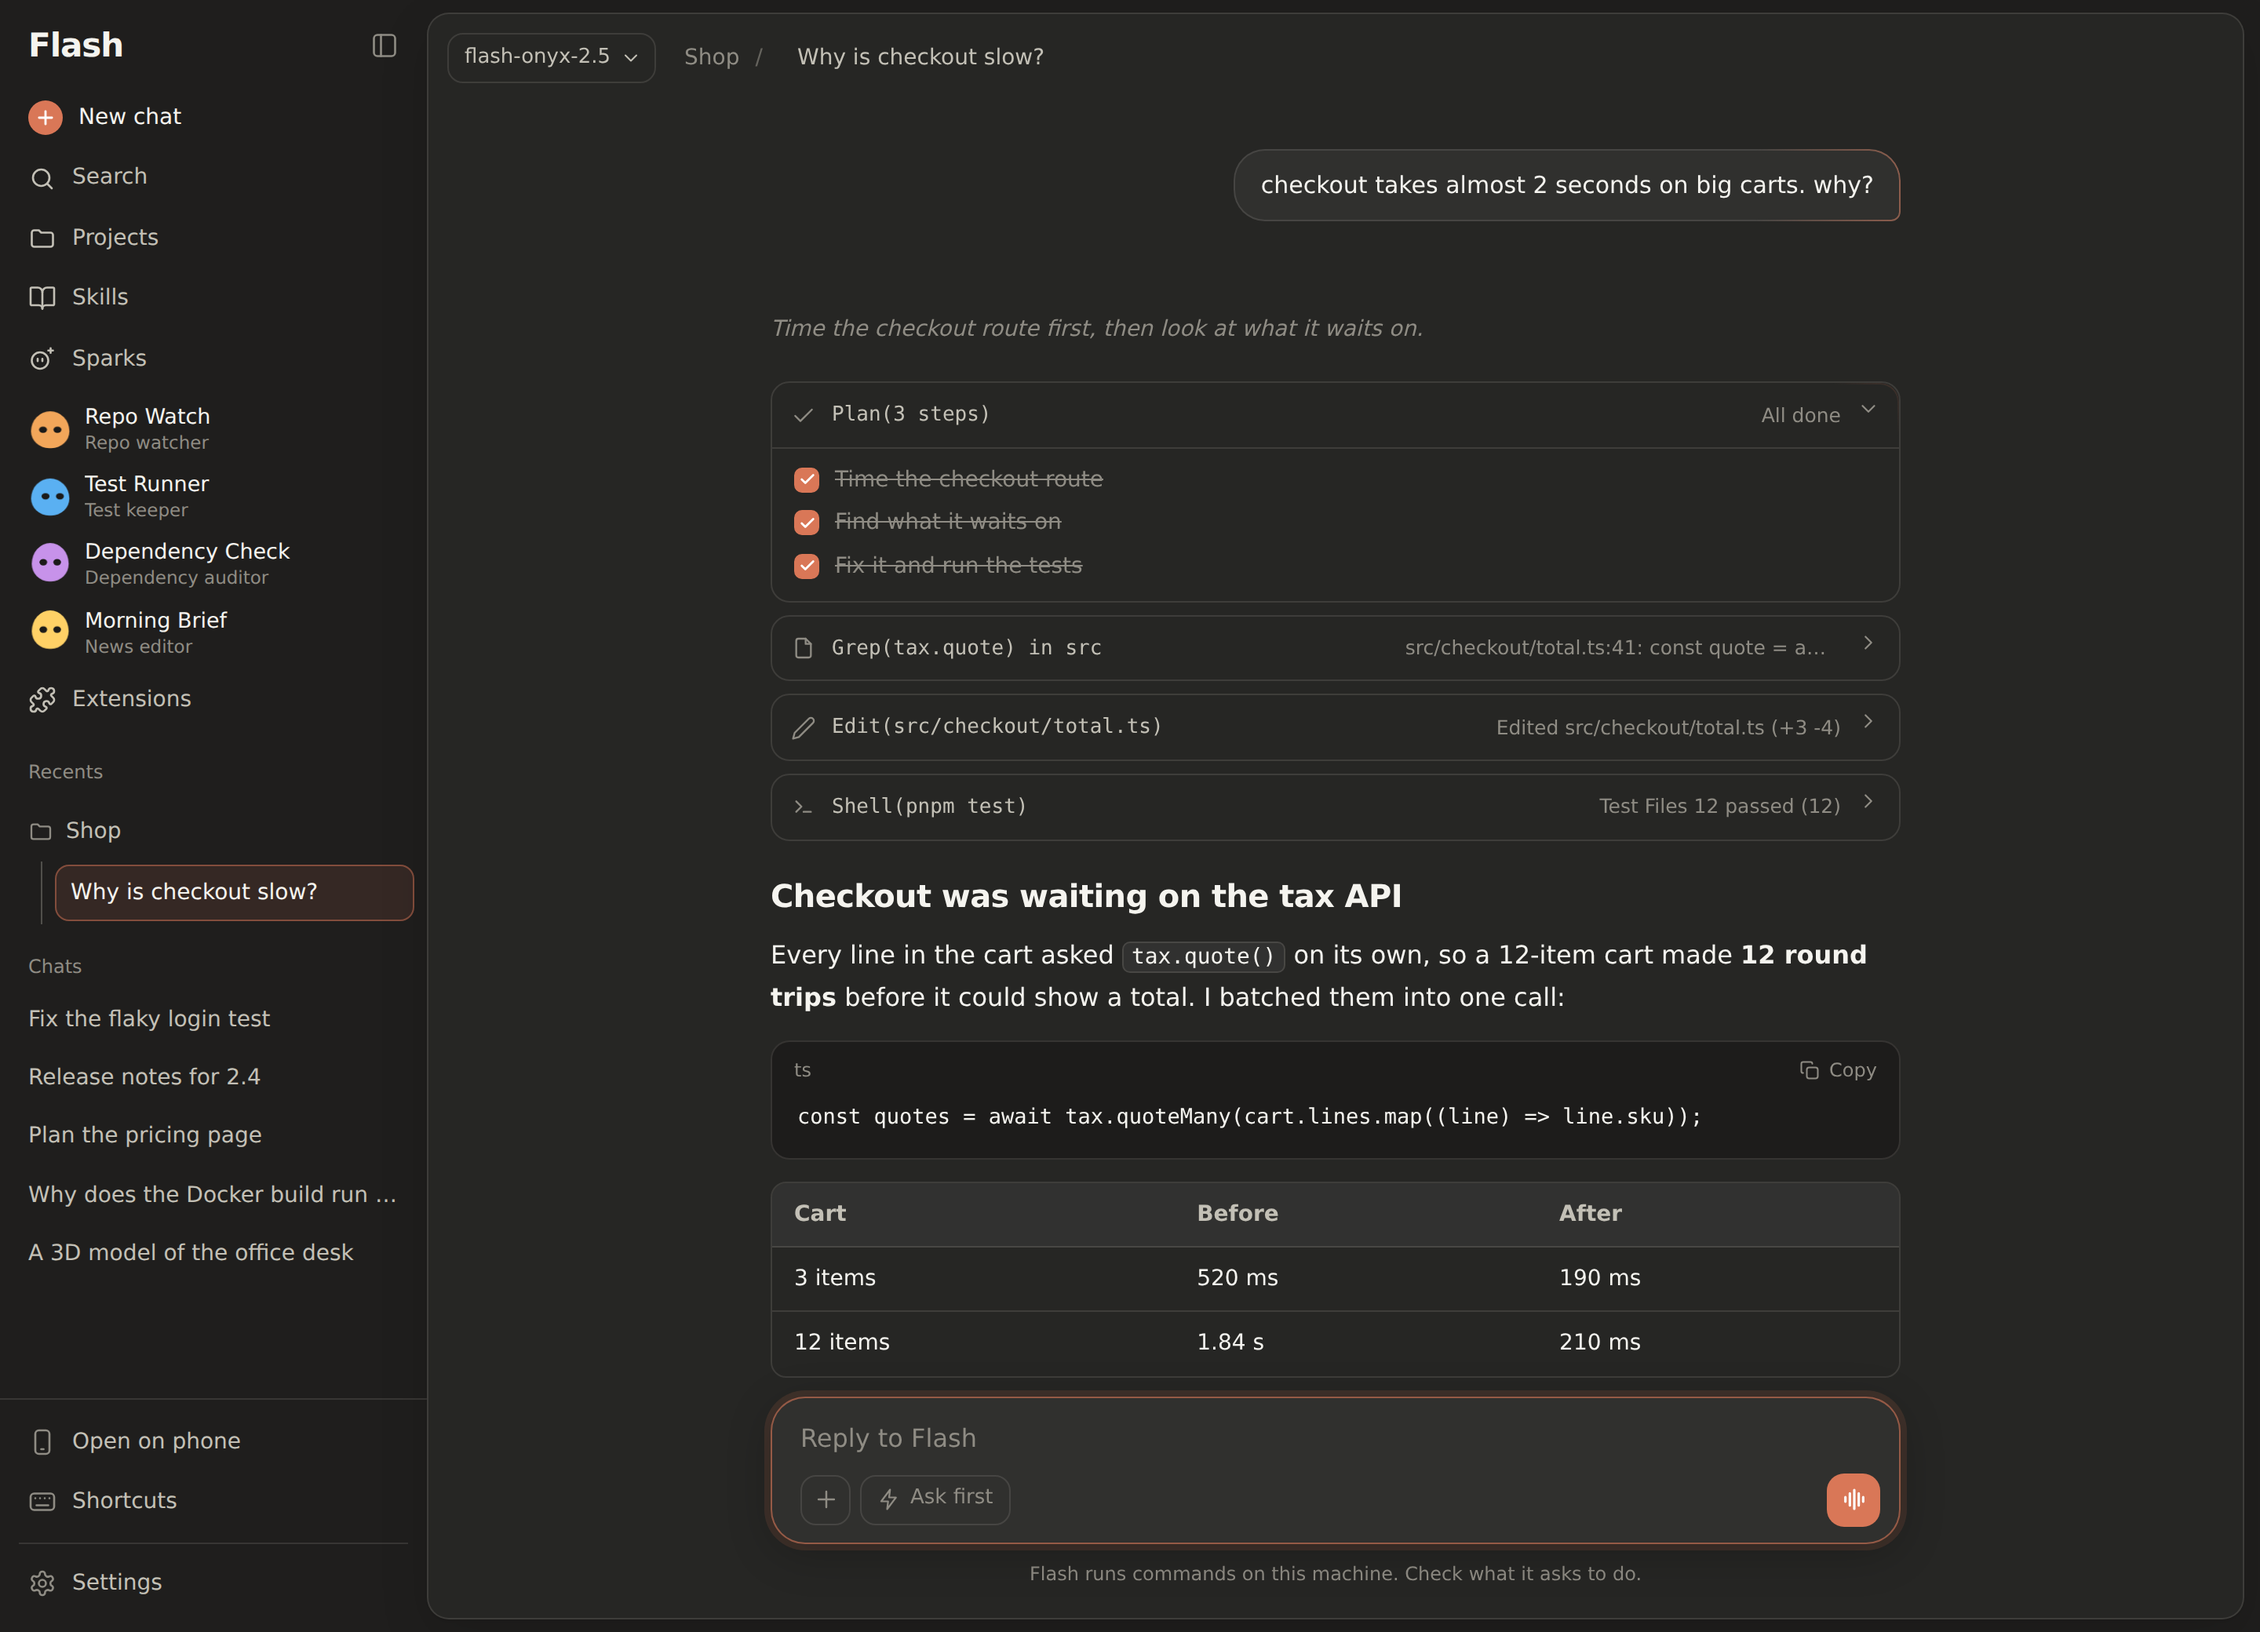
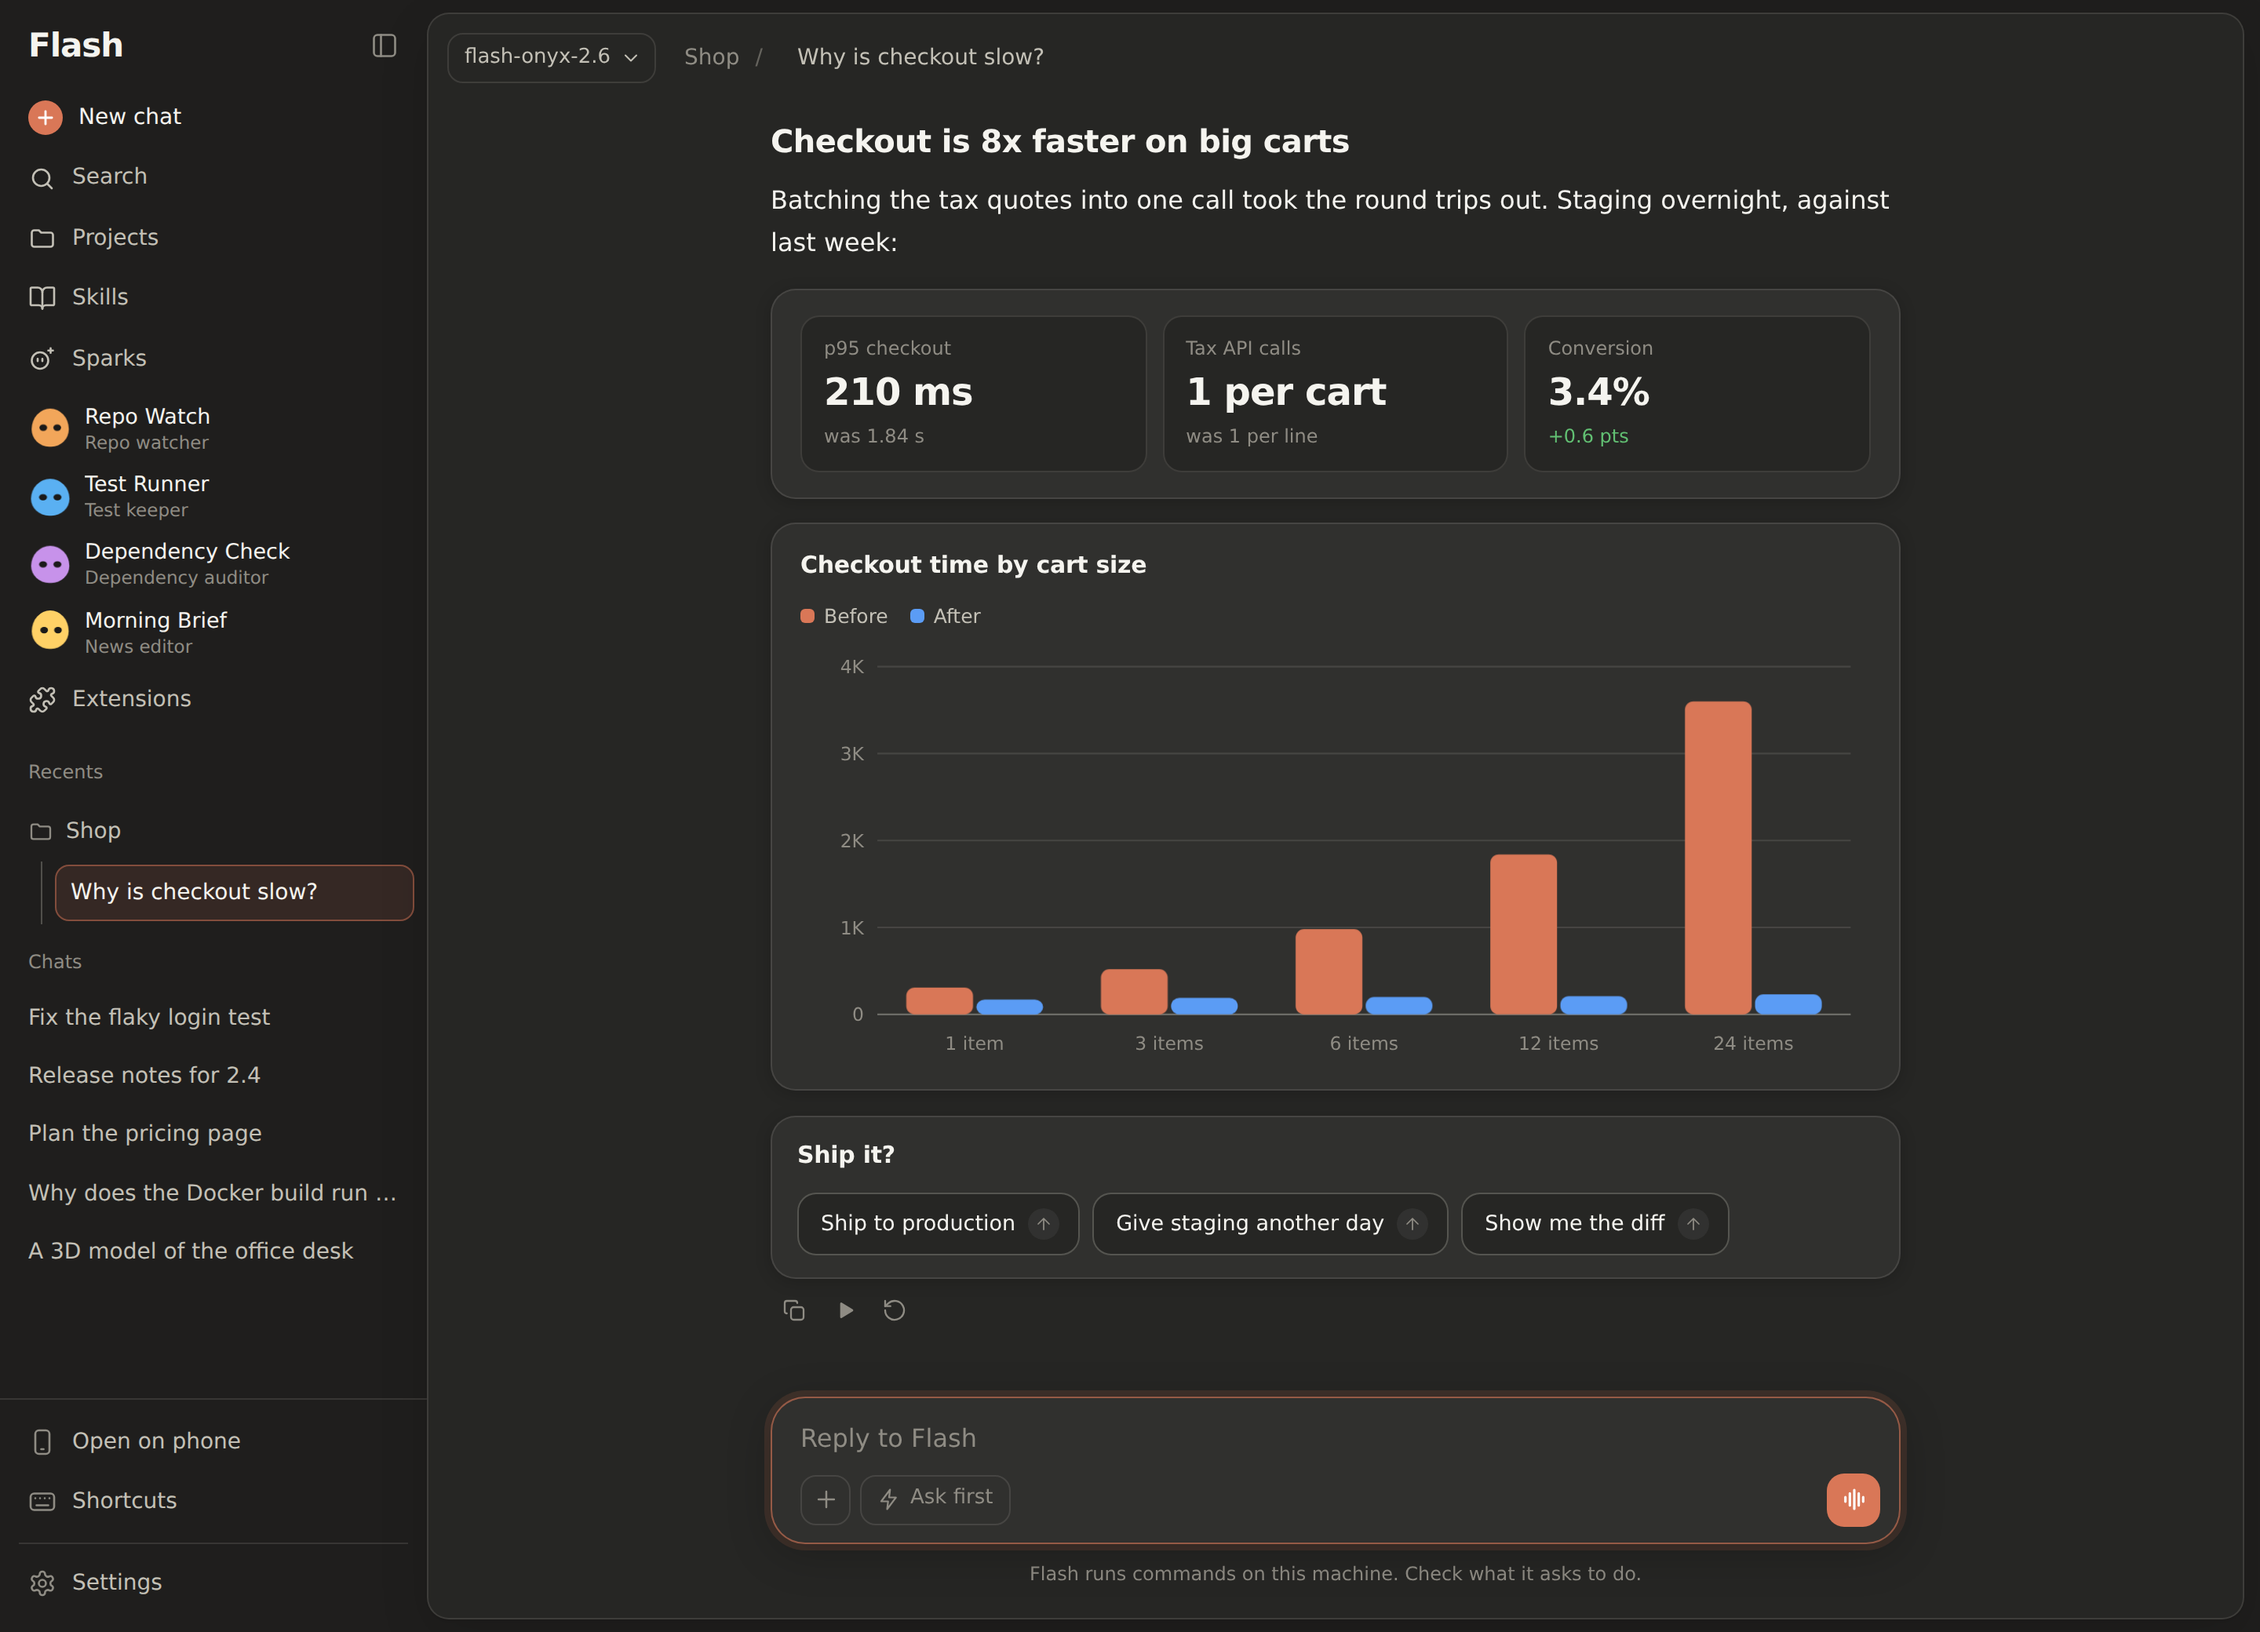
docs: rich answers in the readme screenshot

diff --git a/flash/web/index.html b/flash/web/index.html
@@ -462,8 +462,8 @@ body.empty #suggestions { display: flex; flex-wrap: wrap; justify-content: cente
 .ui-stat { padding: 12px 14px; border-radius: 12px; background: var(--bg); border: 1px solid var(--border); }
 .ui-stat .label { font-size: 12px; color: var(--text-3); font-weight: 500; }
 .ui-stat .value { font-size: 24px; font-weight: 700; letter-spacing: -0.02em; margin-top: 2px; font-variant-numeric: tabular-nums; }
-.ui-stat .note { font-size: 12px; color: var(--text-3); margin-top: 2px; }
-.ui-stat .note.up { color: var(--add); } .ui-stat .note.down { color: var(--del); }
+.ui-stat .ui-note { font-size: 12px; color: var(--text-3); margin-top: 2px; }
+.ui-stat .ui-note.up { color: var(--add); } .ui-stat .ui-note.down { color: var(--del); }
 
 /* Steps, and a chain of stages to click through. */
 .ui-steps { display: grid; gap: 0; }
@@ -3281,7 +3281,7 @@ function uiCompare(spec) {
 function uiStats(spec) {
   const items = (spec.items || []).filter((x) => x && typeof x === "object").slice(0, 6);
   const tone = (note) => (/^\s*[+↑▲]/.test(note) ? " up" : /^\s*[-−↓▼]/.test(note) ? " down" : "");
-  return `<div class="ui-stats">${items.map((s) => `<div class="ui-stat"><div class="label">${uiText(s.label)}</div><div class="value">${uiText(s.value)}</div>${s.note ? `<div class="note${tone(String(s.note))}">${uiText(s.note)}</div>` : ""}</div>`).join("")}</div>`;
+  return `<div class="ui-stats">${items.map((s) => `<div class="ui-stat"><div class="label">${uiText(s.label)}</div><div class="value">${uiText(s.value)}</div>${s.note ? `<div class="ui-note${tone(String(s.note))}">${uiText(s.note)}</div>` : ""}</div>`).join("")}</div>`;
 }
 
 function uiSteps(spec) {

diff --git a/README.md b/README.md
@@ -23,7 +23,7 @@
 <p align="center">
   <picture>
     <source media="(prefers-color-scheme: dark)" srcset="docs/images/web-dark.png">
-    <img src="docs/images/web-light.png" alt="Flash's web UI: in the Shop project, Flash plans, searches, edits and tests a fix for a slow checkout, with its sparks in the sidebar" width="100%">
+    <img src="docs/images/web-light.png" alt="Flash's web UI: in the Shop project, Flash answers how its checkout fix did with stat tiles, a before and after chart and buttons to ship it, with its sparks in the sidebar" width="100%">
   </picture>
 </p>
 
@@ -90,6 +90,9 @@ it goes:
 - **Makes things.** 3D models that open in Blender, MIDI tunes with a
   piano roll to play them, PDFs, images and documents, all shown in the
   web UI's side panel.
+- **Answers with more than words.** Where they say it better, replies
+  hold live charts, side-by-side comparisons, calculators you can change,
+  and buttons for what you say next.
 - **Talks.** `/voice on` and you talk to it, hands free, with speech
   recognition and a voice that run on your machine.
 
